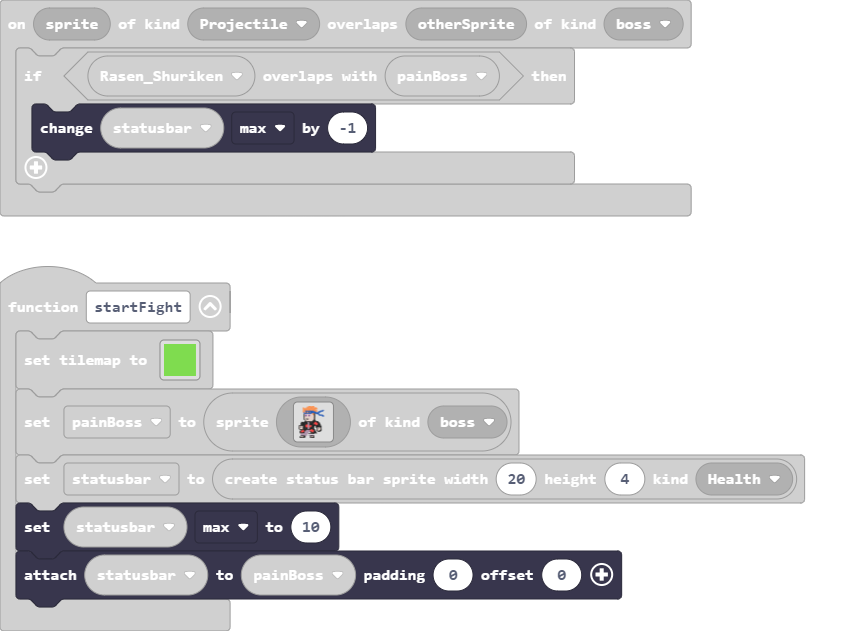
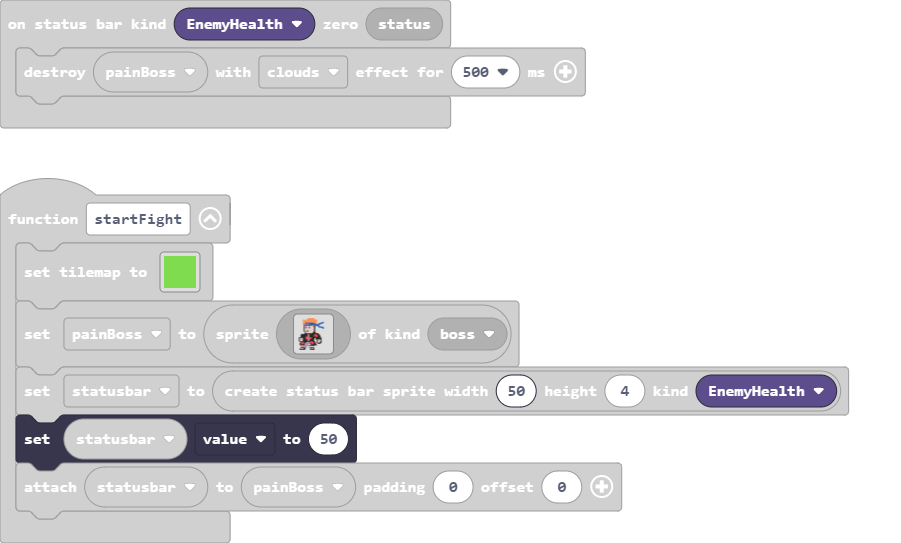
Update main.blocks, main.ts

diff --git a/main.ts b/main.ts
@@ -189,16 +189,16 @@ controller.right.onEvent(ControllerButtonEvent.Released, function () {
 controller.left.onEvent(ControllerButtonEvent.Released, function () {
     animation.stopAnimation(animation.AnimationTypes.All, naruTo)
 })
+statusbars.onZero(StatusBarKind.EnemyHealth, function (status) {
+    painBoss.destroy(effects.clouds, 500)
+})
 function startFight () {
     tiles.setTilemap(tilemap`level16`)
     painBoss = sprites.create(assets.image`Pain`, SpriteKind.boss)
-    statusbar = statusbars.create(20, 4, StatusBarKind.Health)
-    statusbar.max = 10
+    statusbar = statusbars.create(50, 4, StatusBarKind.EnemyHealth)
+    statusbar.value = 50
     statusbar.attachToSprite(painBoss, 0, 0)
 }
-statusbars.onZero(StatusBarKind.Health, function (status) {
-    painBoss.destroy(effects.clouds, 500)
-})
 controller.right.onEvent(ControllerButtonEvent.Pressed, function () {
     animation.runImageAnimation(
     naruTo,
